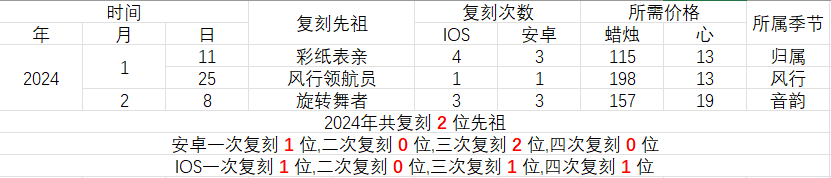
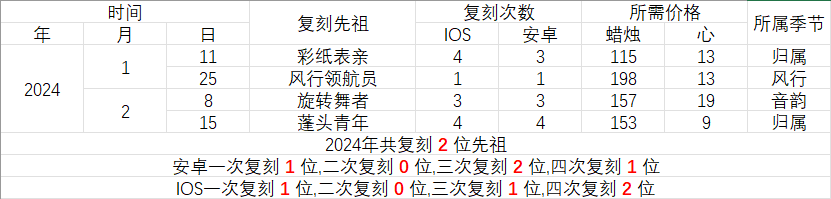
* 2024/02/15

diff --git a/apps/「光遇」先祖多久未复刻查询.js b/apps/「光遇」先祖多久未复刻查询.js
@@ -22,7 +22,7 @@ export class 光遇_先祖多久未复刻查询 extends plugin {
 
   async snrd(e) {
     const SEASON_NAME = (e.msg.match(REGEX))[2]
-    let msg = '数据更新时间：2024-01-11\n此表不计入集体复刻\n'
+    let msg = '数据更新时间：2024-02-19\n此表不计入集体复刻\n'
     if (!seasons[SEASON_NAME]) { return e.reply('不存在该季节,请输入以下季节名：\n感恩丨追光丨归属丨音韵\n魔法丨圣岛丨预言丨梦想\n集结丨小王子丨风行') }
     for (const role of seasons[SEASON_NAME]) {
       const dayDiff = this.getDayDiff(role.date)
@@ -50,7 +50,7 @@ const seasons = {
     { name: '蟹语者', date: new Date('2022-05-09') }
   ],
   '归属': [
-    { name: '蓬头青年', date: new Date('2023-01-25') },
+    { name: '蓬头青年', date: new Date('2024-02-19') },
     { name: '不舍家长', date: new Date('2023-01-17') },
     { name: '踏舞孩童', date: new Date('2023-12-27') },
     { name: '彩纸表亲', date: new Date('2024-01-15') },
